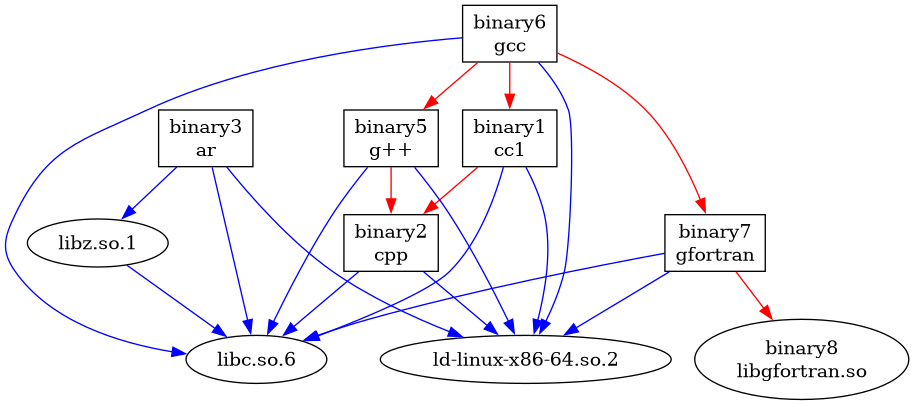
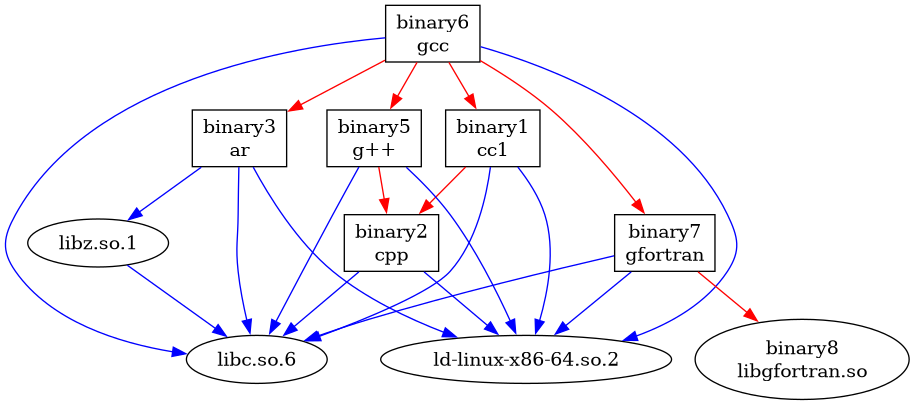
Add files via upload

diff --git a/scripts/gen_sbom.py b/scripts/gen_sbom.py
@@ -16,7 +16,7 @@ binary_descriptions = {
 }
 
 # components_dependencies = {
-#     "gcc": ["g++", "gfortran", "cc1"],
+#     "gcc": ["g++", "gfortran", "cc1", "ar"],
 #     "g++": ["cpp"],
 #     "cc1": ["cpp"],
 #     "gfortran": ["libgfortran.so"],
@@ -26,7 +26,7 @@ binary_descriptions = {
 # }
 
 components_dependencies = {
-    "binary6": ["binary5", "binary7", "binary1"],
+    "binary6": ["binary5", "binary7", "binary1", "binary3"],
     "binary5": ["binary2"],
     "binary1": ["binary2"],
     "binary7": ["binary8"],
